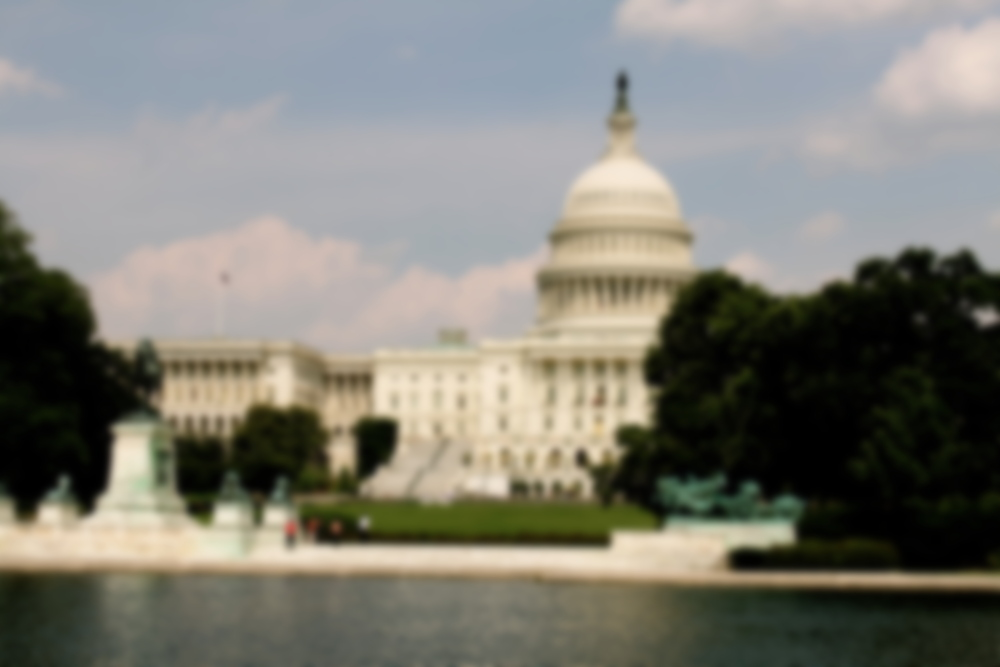
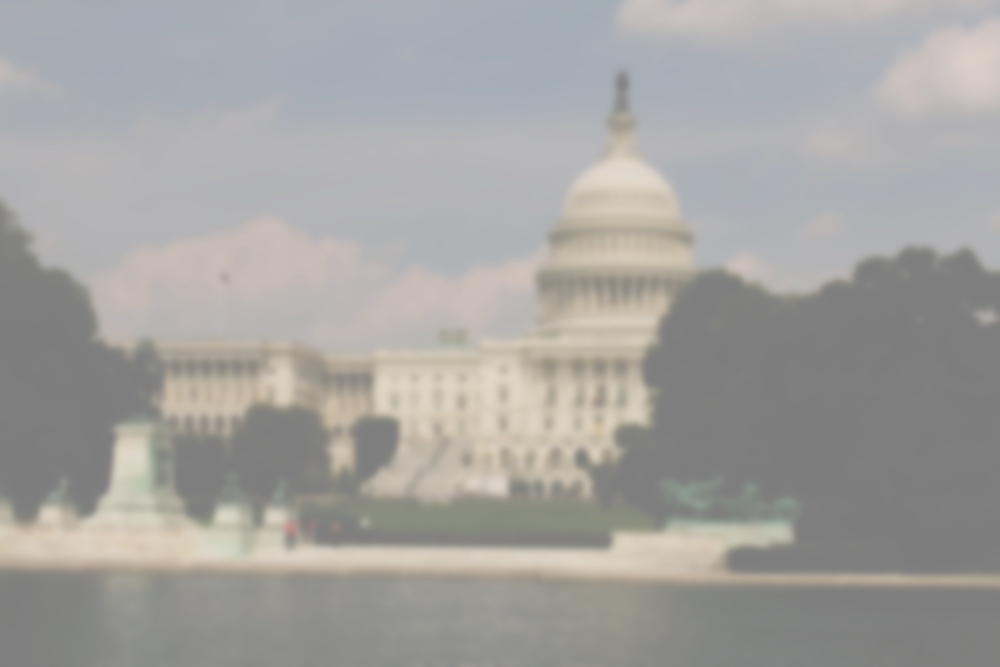
Update styling

diff --git a/login.html b/login.html
@@ -6,6 +6,7 @@
   <link rel="stylesheet" type="text/css" href="assets/slick/slick.css"/>
   <link rel="stylesheet" type="text/css" href="assets/slick/slick-theme.css"/>
   <link rel="stylesheet" href="assets/css/style.css">
+  <link rel="stylesheet" href="assets/css/signup.css">
   <script src="https://code.jquery.com/jquery-3.1.0.min.js"   integrity="sha256-cCueBR6CsyA4/9szpPfrX3s49M9vUU5BgtiJj06wt/s="   crossorigin="anonymous"></script>
   <script type="text/javascript" src="https://maxcdn.bootstrapcdn.com/bootstrap/3.3.7/js/bootstrap.min.js"></script>
   <script src="https://www.gstatic.com/firebasejs/3.2.1/firebase.js"></script>
@@ -53,7 +54,7 @@
       <div class="col-xs-6 col-sm-4">
           <form class="form-signin">
             <h2 class="form-signin-heading">Sign In</h2>
-            <label for="inputEmail" class="sr-only">Email address</label>
+            <label for="inputEmail" id="inputtingEmail" class="sr-only">Email address</label>
             <input type="email" id="login-email" class="form-control" placeholder="Email address" required="" autofocus="">
             <label for="inputPassword" class="sr-only">Password</label>
             <input type="password" id="login-pass" class="form-control" placeholder="Password" required="" autofocus="">

diff --git a/assets/css/style.css b/assets/css/style.css
@@ -1,15 +1,9 @@
 body{
-  /*overflow-x: hidden;*/
   background-repeat: no-repeat;
-  background-image: url("../images/photodune-3928704-capital-in-washington-dc-m-cropped-sepia-blur.jpg");
-/*  background-image: url("../images/147209556288583.jpg");*/
   background-position:left top;
   background-repeat: no-repeat;
   background-attachment: fixed;
-
   background-size:cover;
- /* background: -webkit-linear-gradient(to left, #ECE9E6 , #FFFFFF);*/ /* Chrome 10-25, Safari 5.1-6 */
-  /*background: linear-gradient(to left, #ECE9E6 , #FFFFFF);*/ /* W3C, IE 10+/ Edge, Firefox 16+, Chrome 26+, Opera 12+, Safari 7+ */
   font-family: 'Open Sans', sans-serif;
 }
 .navbar{
@@ -154,4 +148,8 @@ img{
 .table-bordered > tbody > tr > td,
 .table-bordered > tfoot > tr > td {
    border: 2px solid white;
+}
+
+#login-email{
+ margin-bottom:5px;
 }

diff --git a/index.html b/index.html
@@ -8,6 +8,7 @@
   <link rel="stylesheet" type="text/css" href="assets/slick/slick.css"/>
   <link rel="stylesheet" type="text/css" href="assets/slick/slick-theme.css"/>
   <link rel="stylesheet" href="assets/css/style.css">
+  <link rel="stylesheet" href="assets/css/signup.css">
   <script src="https://code.jquery.com/jquery-3.1.0.min.js"   integrity="sha256-cCueBR6CsyA4/9szpPfrX3s49M9vUU5BgtiJj06wt/s="   crossorigin="anonymous"></script>
   <script type="text/javascript" src="https://maxcdn.bootstrapcdn.com/bootstrap/3.3.7/js/bootstrap.min.js"></script>
   <script src="https://www.gstatic.com/firebasejs/3.3.0/firebase.js"></script>

diff --git a/assets/css/signup.css b/assets/css/signup.css
@@ -1,0 +1,3 @@
+body{
+	background-image: url("../images/photodune-3928704-capital-in-washington-dc-m-cropped-sepia-blur.jpg");
+}

diff --git a/assets/css/table.css b/assets/css/table.css
@@ -1,0 +1,3 @@
+body{
+	  background-image: url("../images/147209556288583.jpg");
+}
